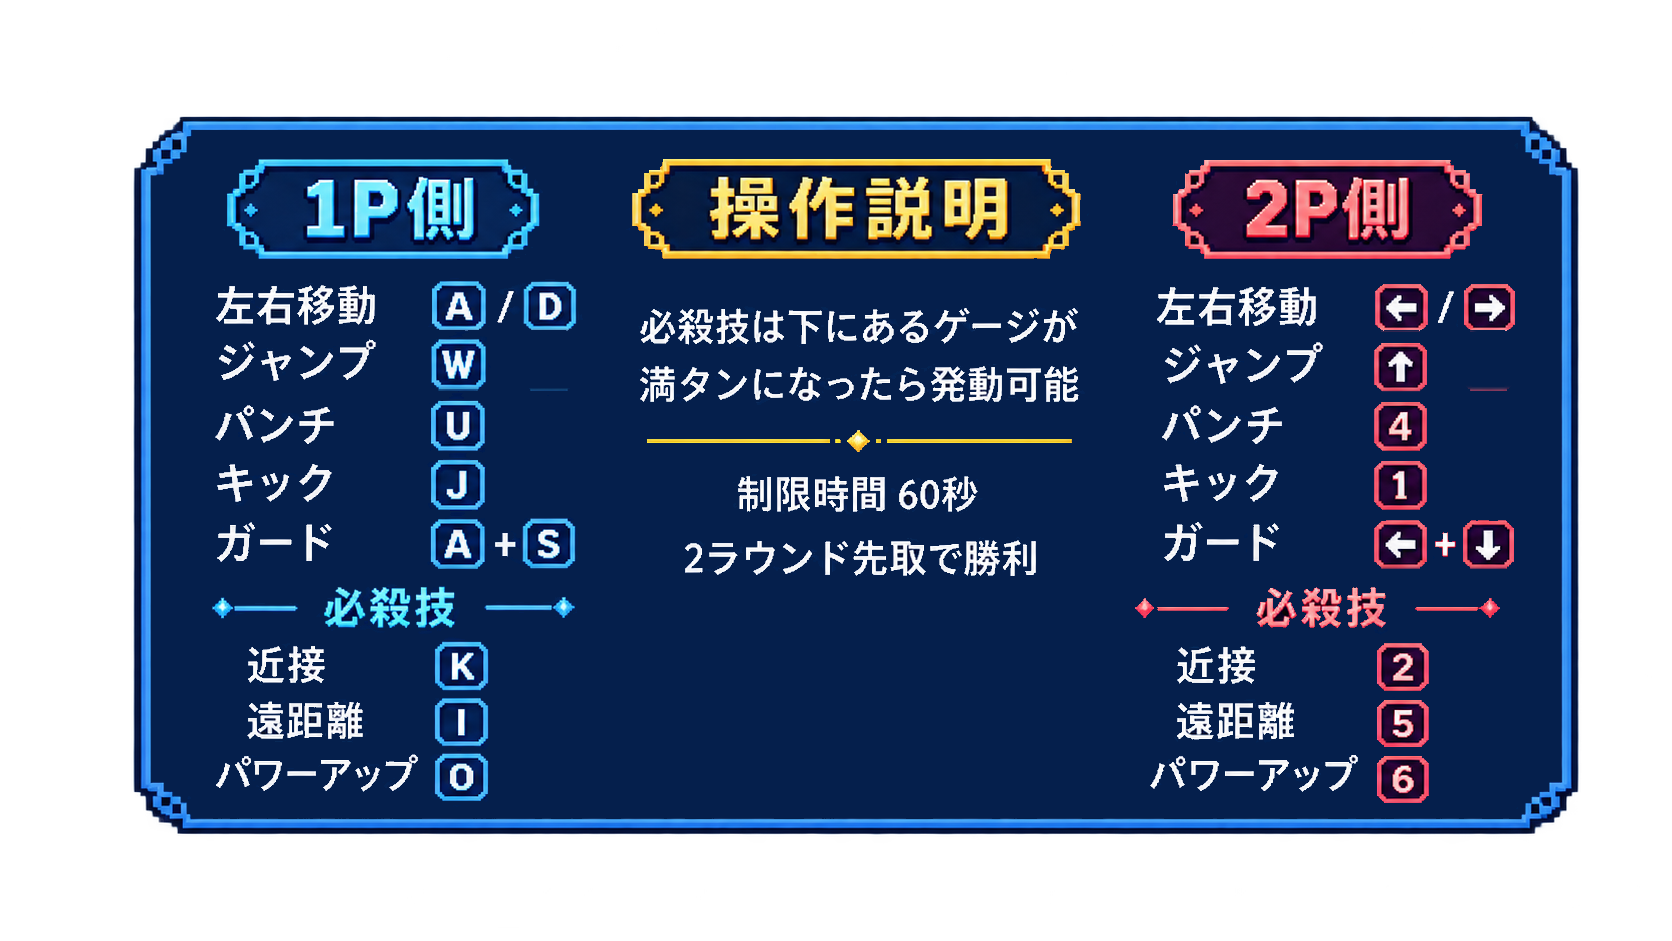
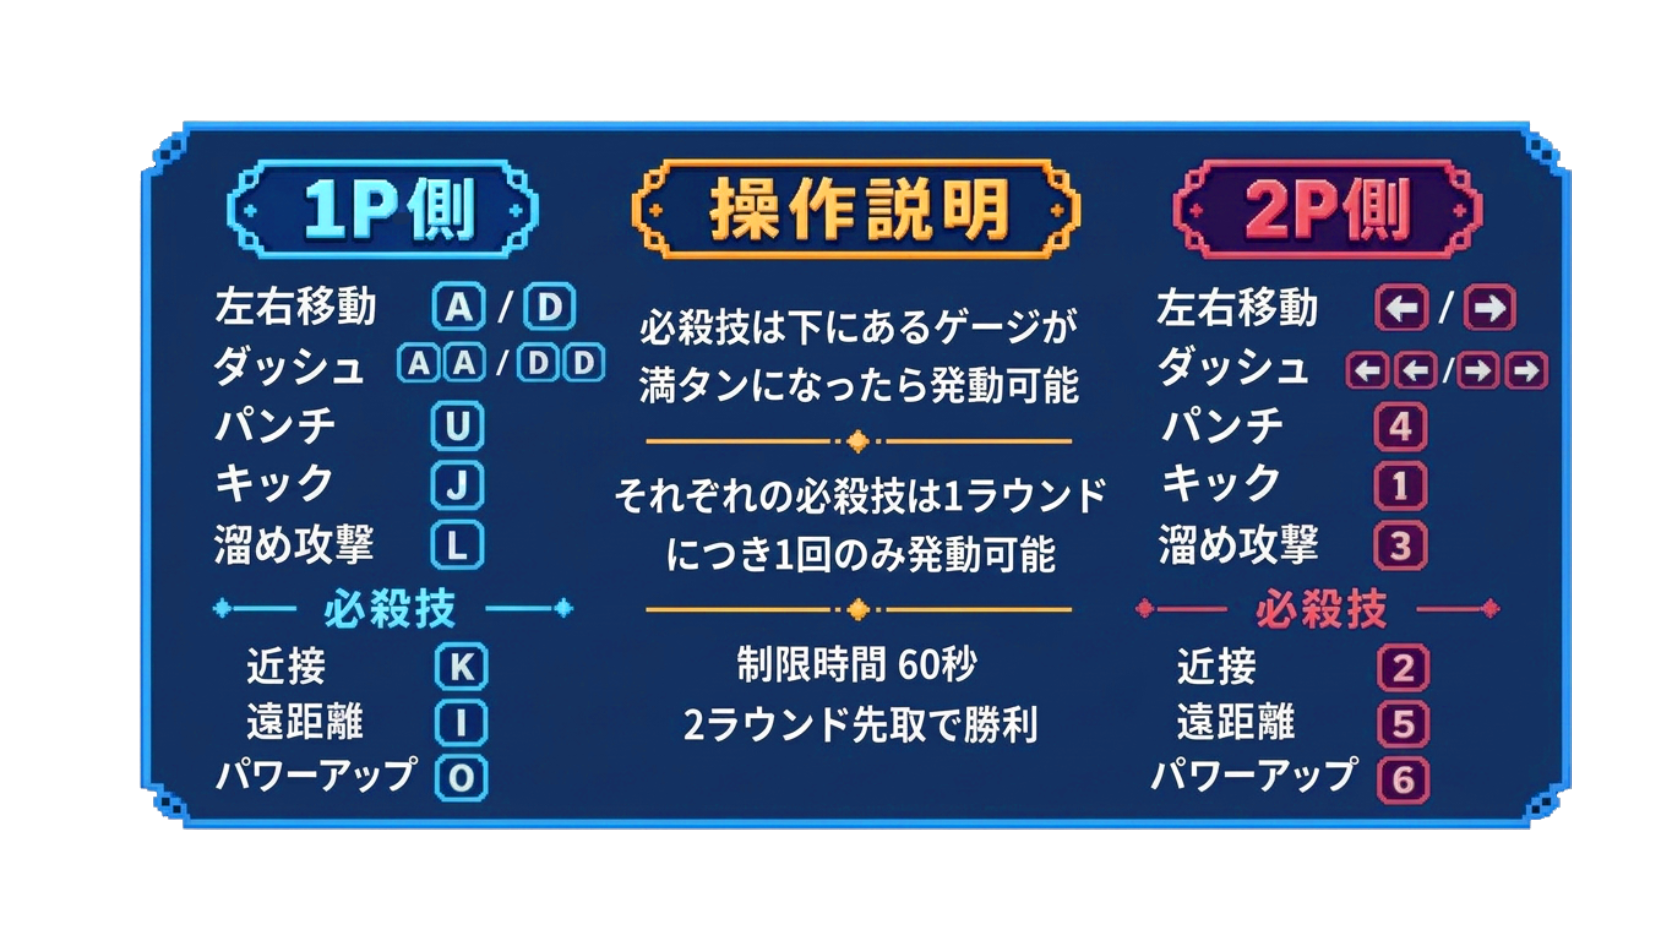
fixed charge sound bug, change info img
as title

Changed region(s): [[0.0622, 0.1233, 0.9641, 0.8937], [0.1244, 0.4931, 0.2177, 0.5239]]

diff --git a/Task_SoundManager.cpp b/Task_SoundManager.cpp
@@ -24,6 +24,7 @@ namespace  SoundManager
 		se::LoadFile("se_Hadou", "./data/sound/se/HadouSE.wav");
 		se::LoadFile("se_Shoryu", "./data/sound/se/ShoryuSE.wav");
 		se::LoadFile("se_Charge", "./data/sound/se/ChargeSE_long.wav");
+		se::LoadFile("se_Charge2", "./data/sound/se/ChargeSE_long.wav"); //仮
 		return true;
 	}
 	//-------------------------------------------------------------------
@@ -142,6 +143,17 @@ namespace  SoundManager
 	void Object::stopChargeSE()
 	{
 		se::Stop("se_Charge");
+	}
+
+	void Object::playChargeSE2()
+	{
+		se::SetVolume("se_Charge2", 50);
+		se::Play("se_Charge2");
+	}
+
+	void Object::stopChargeSE2()
+	{
+		se::Stop("se_Charge2");
 	}
 
 	//★★★★★★★★★★★★★★★★★★★★★★★★★★★★★★★★★★★★★★★★★★

diff --git a/Task_Player2.cpp b/Task_Player2.cpp
@@ -586,10 +586,14 @@ namespace  Player2
 			break;
 		}
 
+		if (this->motion != Motion::AttackCharging)
+		{
+			sdm->stopChargeSE2();
+		}
+
 		switch (nm)
 		{
 		case Motion::Stand:
-			sdm->stopChargeSE();
 			if (inp.LStick.BD.on) //防御の時移動しないように
 			{
 				this->moveVec.x = 0.0f;
@@ -698,11 +702,10 @@ namespace  Player2
 		case Motion::AttackCharging:
 			if (this->moveCnt == 0)
 			{
-				sdm->playChargeSE();
+				sdm->playChargeSE2();
 			}
 			break;
 		case Motion::AttackChargeAtk:
-			sdm->stopChargeSE();
 			if (this->moveCnt == 0)
 			{
 				auto AtkBox = AtkBox::Object::Create(true);

diff --git a/Task_Player1.cpp b/Task_Player1.cpp
@@ -586,10 +586,14 @@ namespace  Player1
 			break;
 		}
 
+		if (this->motion != Motion::AttackCharging)
+		{
+			sdm->stopChargeSE();
+		}
+
 		switch (nm)
 		{
 		case Motion::Stand:
-			sdm->stopChargeSE();
 			if (inp.ST.on) //防御の時移動しないように
 			{
 				this->moveVec.x = 0.0f;
@@ -702,7 +706,6 @@ namespace  Player1
 			}
 			break;
 		case Motion::AttackChargeAtk:
-			sdm->stopChargeSE();
 			if (this->moveCnt == 0)
 			{
 				auto AtkBox = AtkBox::Object::Create(true);

diff --git a/Task_Title.cpp b/Task_Title.cpp
@@ -143,7 +143,7 @@ namespace  Title
 		ML::Box2D  draw_Info(0, 0, 1280, 720);
 		ML::Box2D  src_Info(0, 0, 1672, 941);
 		if (true == info && infoTimer >= 45) {
-			ML::Box2D  draw_PRS2(457, 490, 398, 60);
+			ML::Box2D  draw_PRS2(457, 575, 398, 60);
 			ML::Box2D  src_PRS2(0, 0, 596, 91);
 			src_PRS2.Offset(0, srcSet);
 			this->res->ControlInfo->Draw(draw_Info, src_Info);

diff --git a/Task_SoundManager.h b/Task_SoundManager.h
@@ -59,5 +59,8 @@ namespace  SoundManager
 		void playShoryuSE();
 		void playChargeSE();
 		void stopChargeSE();
+		//仮
+		void playChargeSE2();
+		void stopChargeSE2();
 	};
 }
